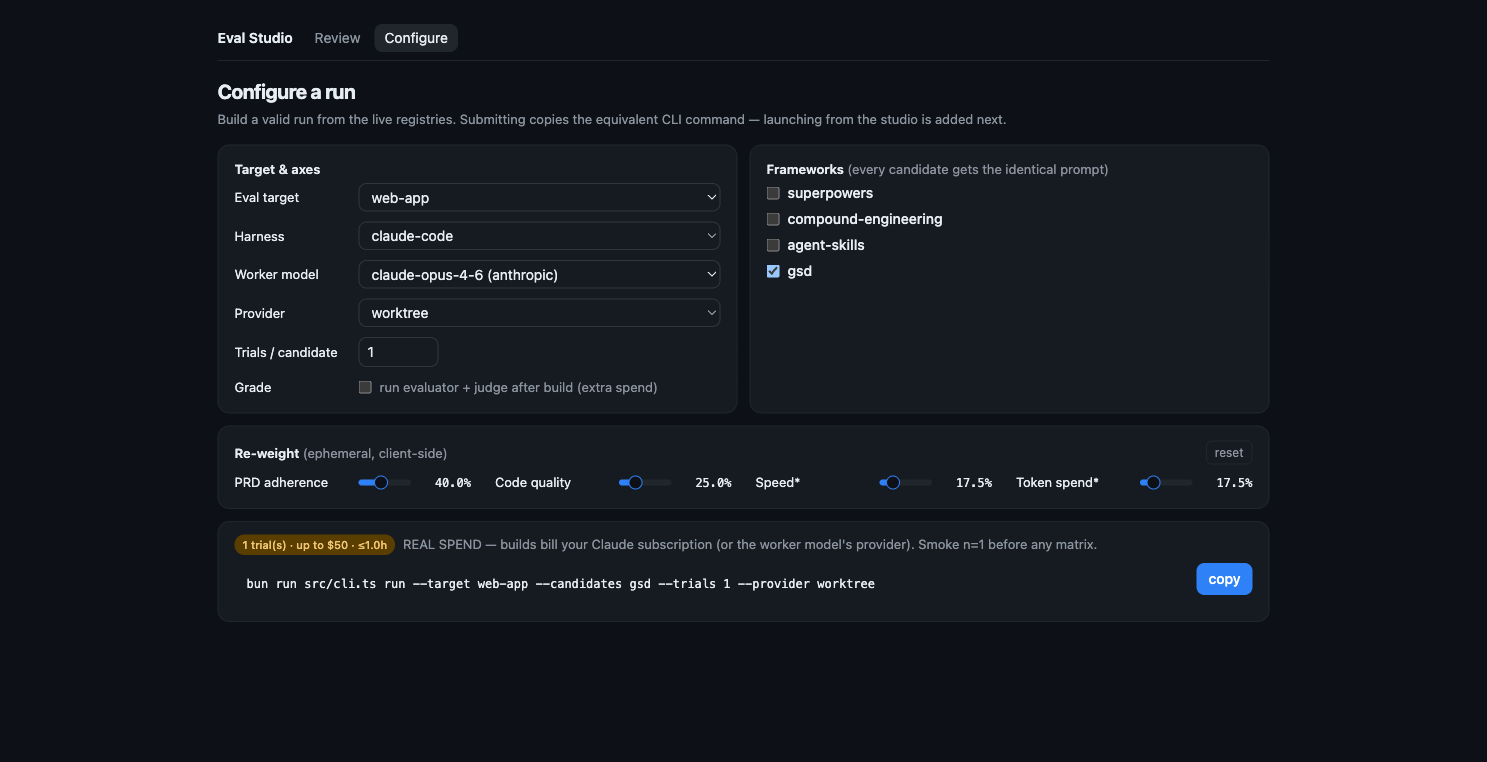
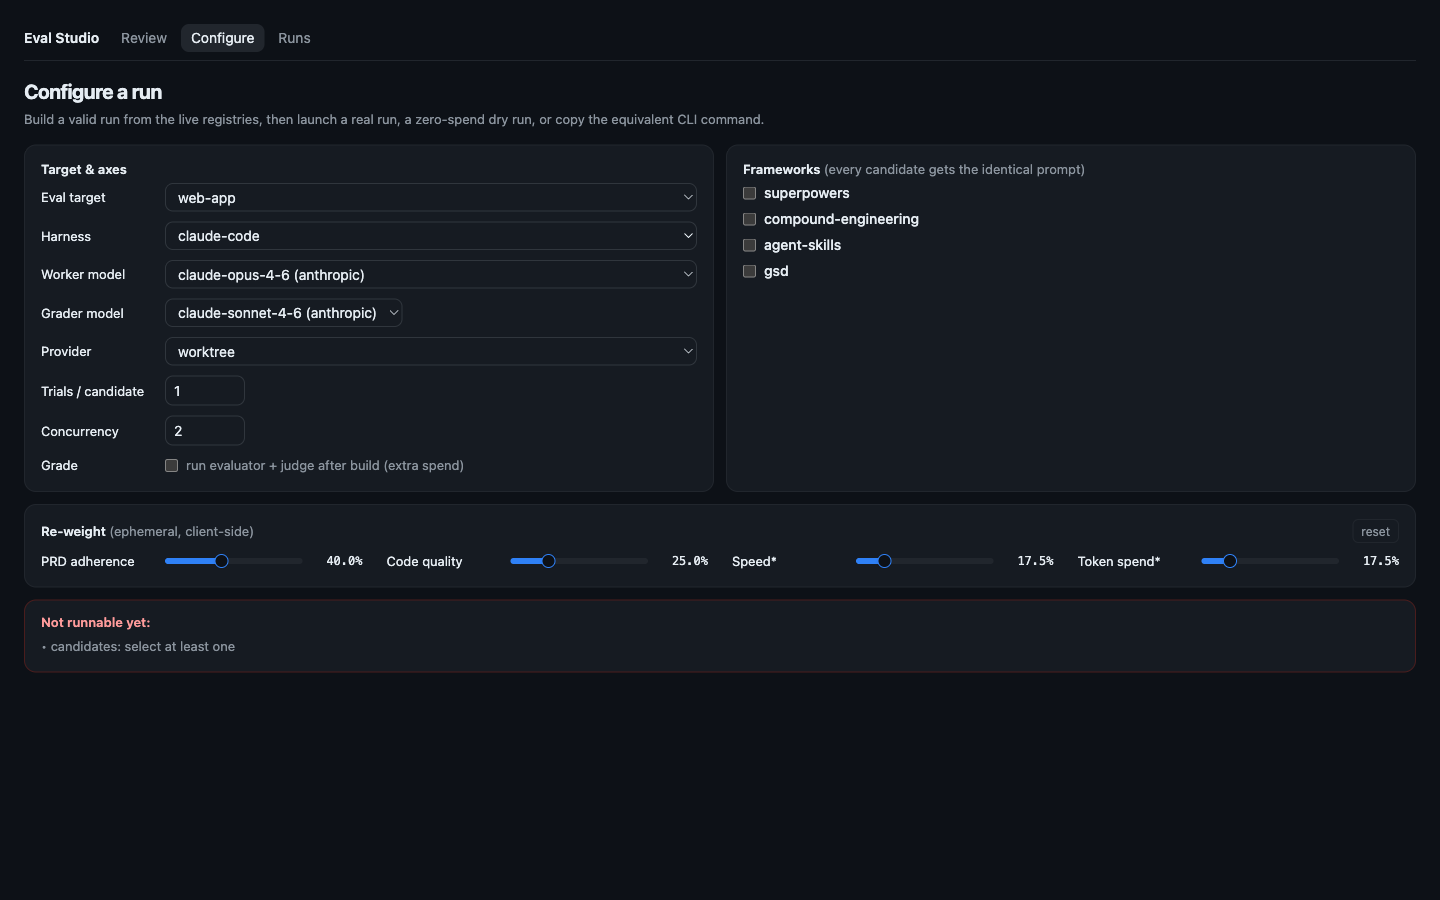
docs: refresh Eval Studio screenshots + wire into EVAL-STUDIO.md
Fresh studio screenshots (leaderboard, configure, runs, run scorecard, trial,
conversation/error-trace viewer) embedded in docs/EVAL-STUDIO.md across the
Review and Launching-real-runs sections, including a new Conversation-replay
bullet. The stale studio shots are preserved under docs/historical/ to track the
tool's evolution. (dashboard.png left as-is — it's the classic dashboard, still
referenced by README.)

diff --git a/docs/EVAL-STUDIO.md b/docs/EVAL-STUDIO.md
@@ -17,18 +17,35 @@ classic dashboard, on shadcn components — reusing the **same scoring module th
 CLI uses**, so client-side re-weighting and composites are identical to
 `report --weights`.
 
-![Eval Studio review: leaderboard with re-weight sliders, dimension bars, and a
-runs table](studio-review.png)
+![Eval Studio leaderboard: candidate frameworks ranked by weighted composite with
+re-weight sliders and dimension bars, over a runs table tagged by app/PRD](studio-leaderboard.png)
 
 - **Leaderboard** — cross-run, aggregated by candidate/harness/worker-model, with
   re-weight sliders (live), dimension data bars, info-tooltips per column, and a
   mixed-candidate-set caveat.
 - **Run scorecard** (`/runs/:id`) — per-candidate composite + dimensions + ±σ,
   the trials table, a step-comparison matrix (✅ / 🟡 partial-credit / ❌ with
-  evidence on hover), exclusions, and provenance hashes.
+  evidence on hover), exclusions (with the reason), and provenance hashes.
+
+  ![Eval Studio run scorecard: per-candidate composite and dimension bars, trials
+  table, step-by-step adherence comparison, excluded trials with reasons, and
+  provenance](studio-run-scorecard.png)
+
 - **Trial drill-down** (`/runs/:id/trials/:id`) — provenance + telemetry, the
-  PRD-adherence step results with collapsible cited evidence, the blind judge's
-  per-criterion samples + justifications, the real-integration tier, and notes.
+  PRD-adherence step results with cited evidence and `↳ trace` links, the blind
+  judge's per-criterion samples + justifications, the real-integration tier, and a
+  non-completed trial's failure reason.
+
+  ![Eval Studio trial drill-down: PRD adherence steps with pass/partial/fail and
+  trace links, blind code-quality criteria with samples, and telemetry](studio-trial.png)
+
+- **Conversation replay** — the trial's full build transcript (request/response,
+  thinking, tool calls), with session jumps, an **error navigator** that steps
+  through the run's errors one at a time, and an outline trace to where a step
+  went wrong.
+
+  ![Eval Studio conversation viewer: request/response build replay with session
+  jumps, an error navigator, and an outline trace](studio-conversation.png)
 
 ## Configure
 
@@ -57,6 +74,9 @@ per-trial status, the current **stage** (provisioning → installing → buildin
 grading), and cost-so-far. **Cancel** tears down the in-flight sandbox so a stuck
 trial stops immediately (it doesn't wait for the wall-clock budget). A
 non-completed trial's failure reason is surfaced on its drill-down.
+
+![Eval Studio runs view: launched runs with live status, stage, cost-so-far and
+cancel, alongside historical runs from disk](studio-runs.png)
 
 **Concurrency** is selectable and defaults per provider — **1 on daytona** (its
 free tier is ~10 GiB / effectively concurrency-1, so a higher value gets sandboxes